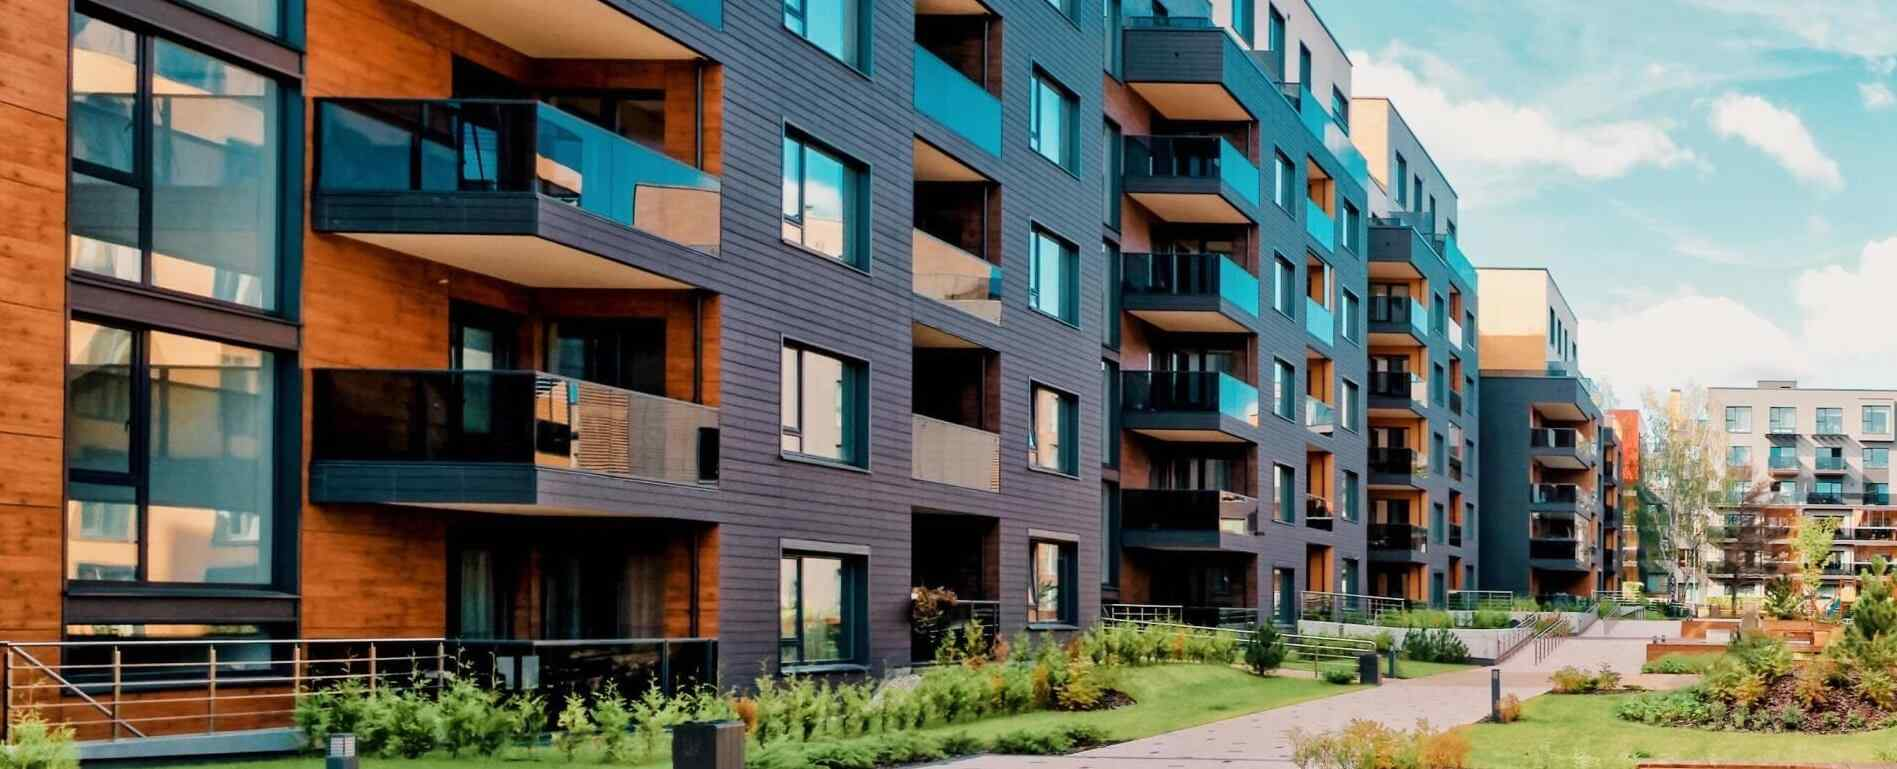
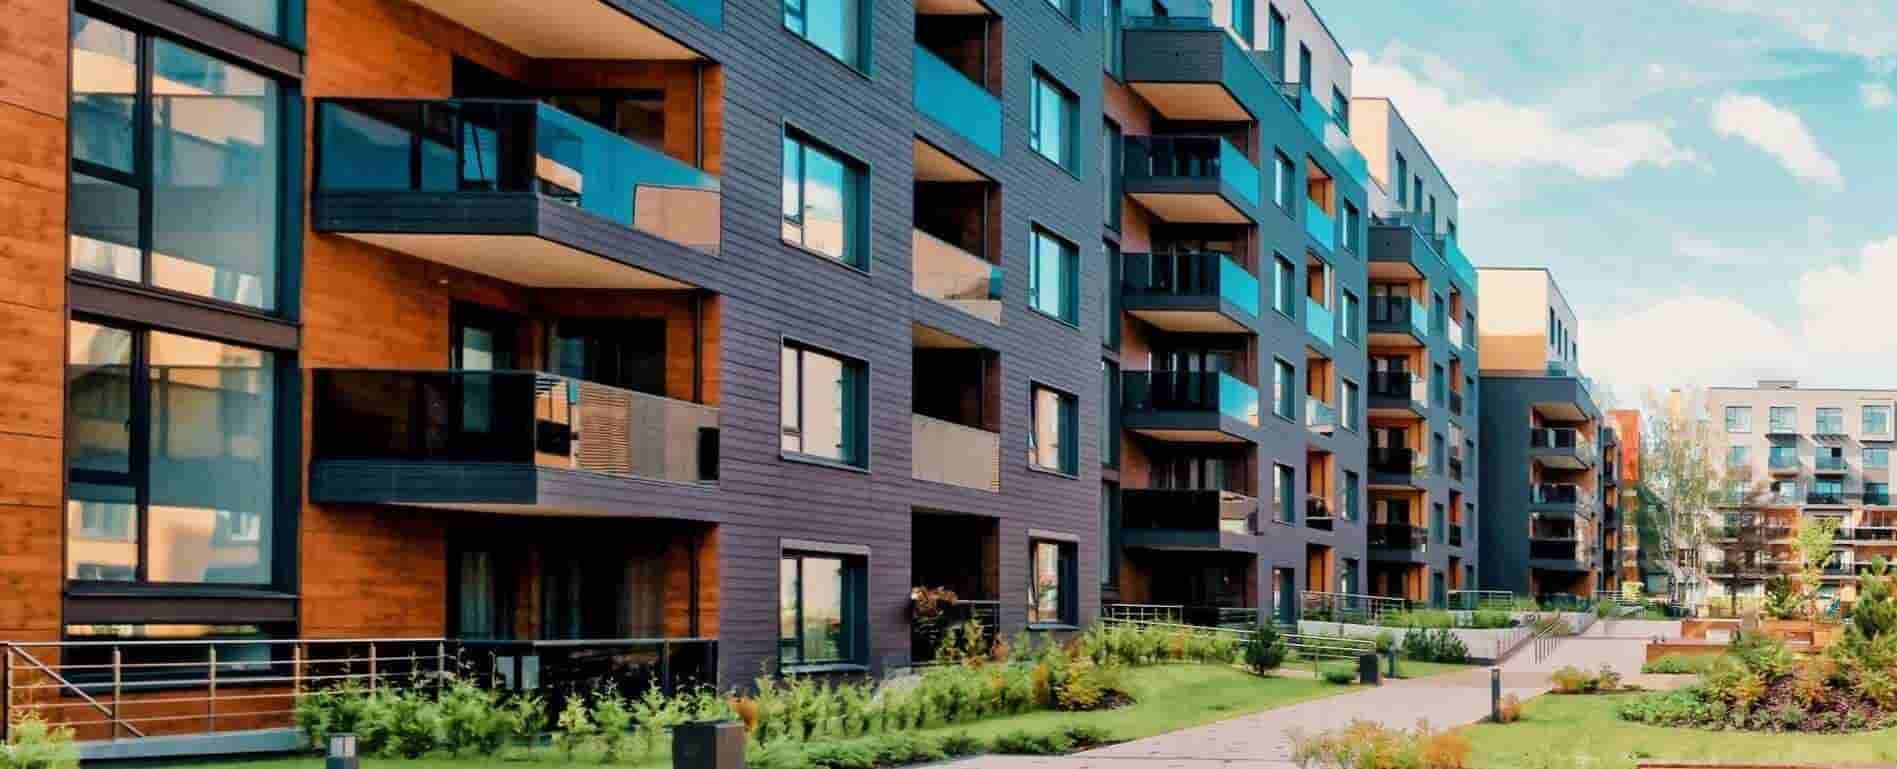
optimization 3

diff --git a/src/app/(sitemap)/about/csr-esg/page.tsx b/src/app/(sitemap)/about/csr-esg/page.tsx
@@ -28,7 +28,7 @@ const Page = () => {
       </div>
       <div className='relative '>
         <Image
-          src={`/about/socialResponce.png`}
+          src={`/about/socialResponce.jpg`}
           width={2046}
           height={768}
           alt='Leadership'
@@ -58,7 +58,7 @@ const Page = () => {
       </div>
       <div className='relative p-20'>
         <Image
-          src={`/about/esgBanner2.png`}
+          src={`/about/esgBanner2.jpg`}
           width={2046}
           height={768}
           alt='Leadership'
@@ -106,7 +106,7 @@ const Page = () => {
           </div>
           <div>
             <Image
-              src={`/about/csr1.png`}
+              src={`/about/csr1.jpg`}
               width={2046}
               height={768}
               alt='Leadership'
@@ -131,7 +131,7 @@ const Page = () => {
         <div className='grid grid-cols-2 mt-10'>
           <div>
             <Image
-              src={`/about/csr2.png`}
+              src={`/about/csr2.jpg`}
               width={2046}
               height={768}
               alt='Leadership'
@@ -157,7 +157,7 @@ const Page = () => {
       </div>
       <div className='relative p-20'>
         <Image
-          src={`/about/esgBanner3.png`}
+          src={`/about/esgBanner3.jpg`}
           width={2046}
           height={768}
           alt='Leadership'
@@ -205,7 +205,7 @@ const Page = () => {
           </div>
           <div>
             <Image
-              src={`/about/csr3.png`}
+              src={`/about/csr3.jpg`}
               width={2046}
               height={768}
               alt='Leadership'
@@ -230,7 +230,7 @@ const Page = () => {
         <div className='grid grid-cols-2 mt-10'>
           <div>
             <Image
-              src={`/about/csr4.png`}
+              src={`/about/csr4.jpg`}
               width={2046}
               height={768}
               alt='Leadership'
@@ -285,7 +285,7 @@ const Page = () => {
           </div>
           <div>
             <Image
-              src={`/about/csr5.png`}
+              src={`/about/csr5.jpg`}
               width={2046}
               height={768}
               alt='Leadership'

diff --git a/src/app/(sitemap)/about/values/page.tsx b/src/app/(sitemap)/about/values/page.tsx
@@ -32,7 +32,7 @@ const Page = () => {
       </div>
       <div className='relative '>
         <Image
-          src={`/about/valueBanner.png`}
+          src={`/about/valueBanner.jpg`}
           width={2046}
           height={768}
           alt='Value'
@@ -270,7 +270,7 @@ const Page = () => {
           </div>
           <div className='z-1 flex flex-row relative h-96'>
             <Image
-              src={`/about/socialResponce.png`}
+              src={`/about/socialResponce.jpg`}
               height={540}
               width={960}
               alt='insights'

diff --git a/src/app/(sitemap)/about/page.tsx b/src/app/(sitemap)/about/page.tsx
@@ -411,7 +411,7 @@ const Page = () => {
       <div className=' flex items-center justify-center mb-20'>
         <div className='relative md:ml-10 md:mr-10'>
           <Image
-            src={`/about/socialResponce.png`}
+            src={`/about/socialResponce.jpg`}
             width={1920}
             height={786}
             alt='integrity'

diff --git a/src/app/(sitemap)/sectors/railways-metro/page.tsx b/src/app/(sitemap)/sectors/railways-metro/page.tsx
@@ -88,7 +88,7 @@ const Page = () => {
       </div>
       <div className='relative '>
         <Image
-          src={`/sectors/RailwaysMetro.jpg`}
+          src={`/sectors/RailwaysMetro1.jpg`}
           width={2046}
           height={768}
           alt='Railways & Metro'

diff --git a/src/app/(sitemap)/sectors/oil-gas/page.tsx b/src/app/(sitemap)/sectors/oil-gas/page.tsx
@@ -82,7 +82,7 @@ const Page = () => {
       </div>
       <div className='relative '>
         <Image
-          src={`/sectors/OilGas.jpg`}
+          src={`/sectors/OilGas1.jpg`}
           width={2046}
           height={768}
           alt='Oil & Gas'

diff --git a/src/app/(sitemap)/sectors/ports/page.tsx b/src/app/(sitemap)/sectors/ports/page.tsx
@@ -52,7 +52,7 @@ const Page = () => {
       </div>
       <div className='relative '>
         <Image
-          src={`/sectors/Ports.jpg`}
+          src={`/sectors/Ports1.jpg`}
           width={2046}
           height={768}
           alt='Ports'

diff --git a/src/app/(sitemap)/about/more-about-us/page.tsx b/src/app/(sitemap)/about/more-about-us/page.tsx
@@ -30,7 +30,7 @@ const Page = () => {
       </div>
       <div className='relative '>
         <Image
-          src={`/about/BG.png`}
+          src={`/about/BG.jpg`}
           width={2046}
           height={768}
           alt='Insights'
